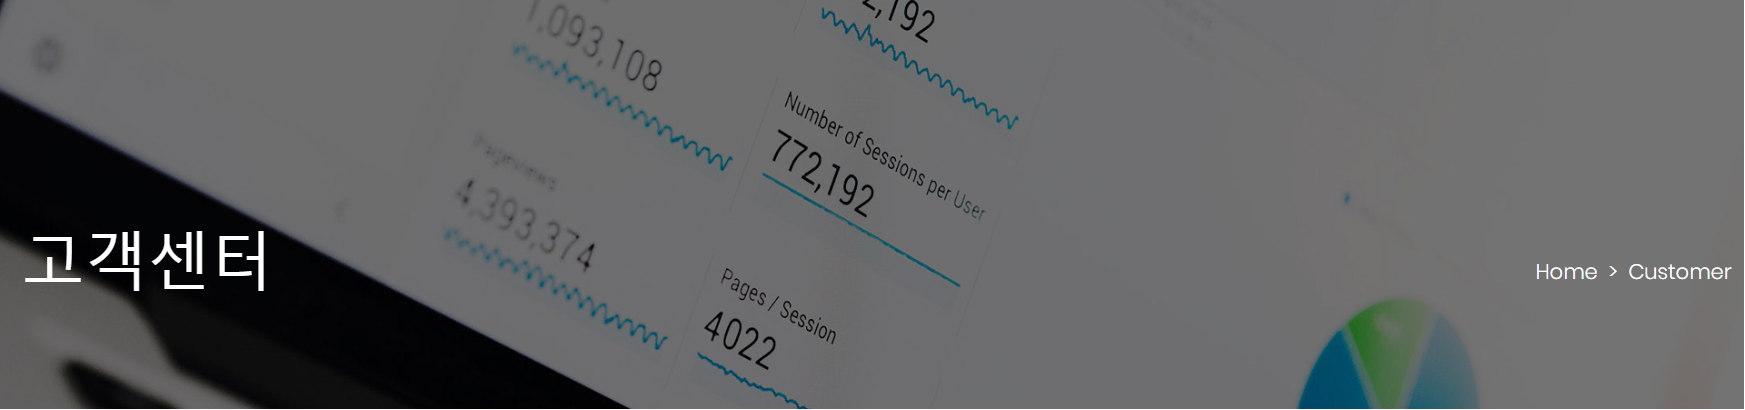
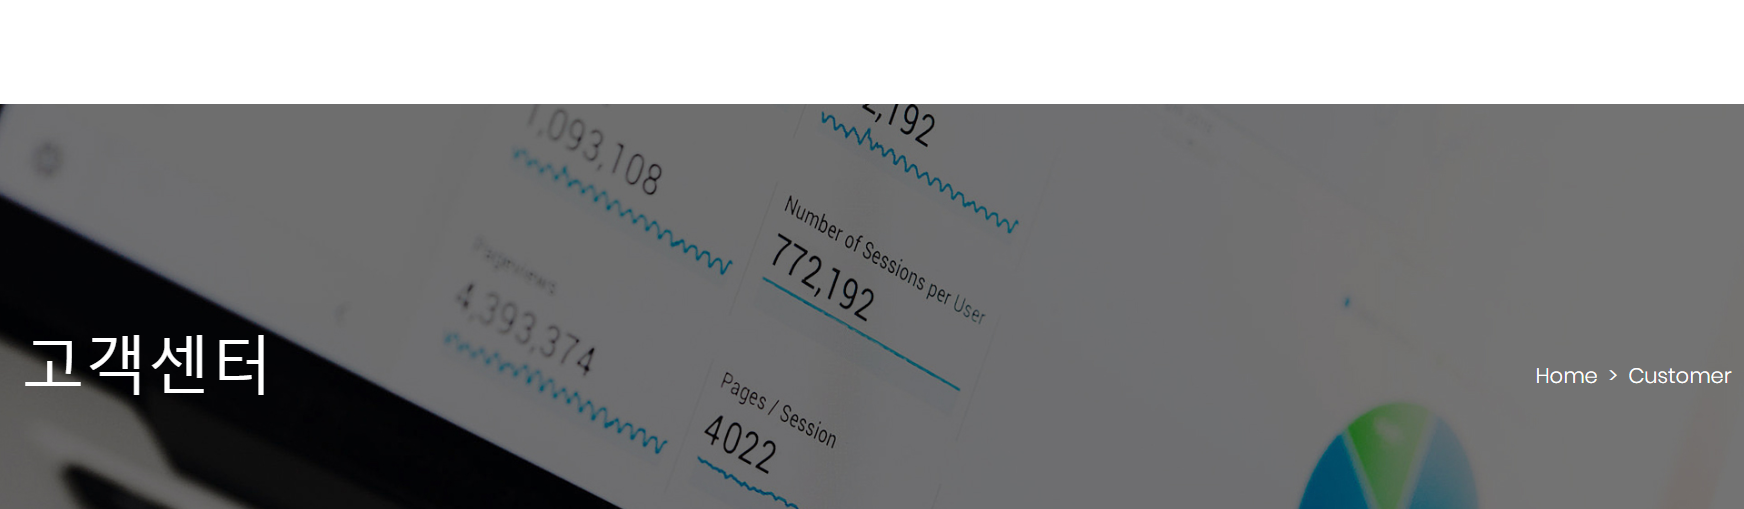
hiever

diff --git a/Projects/Hiever/Customer_Center/customer_center.html b/Projects/Hiever/Customer_Center/customer_center.html
@@ -7,7 +7,7 @@
         <link type="text/css" rel="stylesheet" href="../bar/css/lower_bar.css">
     </head>
     <body>
-        <div>
+        <div class="header">
             <div style="float:left;">
                 <h1><a href="../Main/main2.html"><img src="../bar/logo.png" width="230" height="50"></a></h1>
             </div>
@@ -18,7 +18,7 @@
                 <li class="menu_bar2"><a class="menu_bar3" href="../Customer_Center/customer_center.html">고객 센터</a></li>
             </ul>
         </div>
-        <img src="photo/customer_center_upper.png" style="padding-left: 40px;" width="1165" height="260">
+        <img src="photo/customer_center_upper.png" style="padding-left: 40px;" width="1165" height="360">
         <div class="background">
             <div class="center">
                 <h1 style="color:#8000FF;">Customer<span style="color:black;"> Center</span></h1>
@@ -57,72 +57,71 @@
         <div class="account">
             제작에 관련하여 가장 많이 질문하시는 내용입니다. 더 궁금하신 사항은 당사로 연락주시면 자세한 답변드리겠습니다.
         </div>
-        <div class="">
-            <ul>
-                <li class="Q">홈페이지 제작 상담을 받고 싶은데, 어떻게 해야하나요?</li>
-                    <div class="A">
-                        제작하시려는 홈페이지의 업종과 예상되는 페이지수, 참고하신 홈페이지 주소나 원하시는 디자인, 제작 예산, 기타 부가적인 기능들에 대해 말씀해주시면 됩니다.<br>
-                        특히, 제작하시려는 홈페이지와 유사한 다른 특정 사이트를 말씀해주시면 견적을 안내해드리기 쉽습니다.<br>
-                        <br>
-                        하이에버 홈페이지의 문의하기를 이용하시거나 고객센터(☎ 1599-1880)로 전화주시면 친절히 상담해 드리겠습니다.<br>
-                        제작관련 상담 이메일은 mail@hiever.co.kr입니다. 보다 자세한 논의가 필요한 경우 대면 미팅 가능합니다.<br>
-                    </div>
-                <li class="Q">제작 절차가 어떻게 되나요?</li>
-                    <div class="A">
-                        1. 상담/자료준비 <br>
-                        견적문의 및 상담을 요청하시면 제작하시려는 견적에 필요한 고객 준비 자료를 작성하시도록 도와드립니다.<br>
-                        <br>
-                        2. 견적서/착수금결제/진행(시안제작)<br>
-                        보내드린 견적서를 확인하시고 착수금을 결제해 주시면 귀하의 프로젝트에 인원 배정 및 메인 시안을 제작합니다.<br>
-                        <br>
-                        3. 시안확인/진행 <br>
-                        시안이 통과되면 홈페이지 제작을 진행합니다.<br>
+        <div class="accordion">
+            <input type="checkbox" id="Q&A1">
+            <label for="Q&A1">홈페이지 제작 상담을 받고 싶은데, 어떻게 해야하나요? <em></em></label>
+            <div><p>
+                제작하시려는 홈페이지의 업종과 예상되는 페이지수, 참고하신 홈페이지 주소나 원하시는 디자인, 제작 예산, 기타 부가적인 기능들에 대해 말씀해주시면 됩니다.<br>
+                특히, 제작하시려는 홈페이지와 유사한 다른 특정 사이트를 말씀해주시면 견적을 안내해드리기 쉽습니다.<br>
+                <br>
+                하이에버 홈페이지의 문의하기를 이용하시거나 고객센터(☎ 1599-1880)로 전화주시면 친절히 상담해 드리겠습니다.<br>
+                제작관련 상담 이메일은 mail@hiever.co.kr입니다. 보다 자세한 논의가 필요한 경우 대면 미팅 가능합니다.<br></p></div>
+            <input type="checkbox" id="Q&A2">
+            <label for="Q&A2">제작 절차가 어떻게 되나요?</label>
+            <div><p>
+                1. 상담/자료준비 <br>
+                견적문의 및 상담을 요청하시면 제작하시려는 견적에 필요한 고객 준비 자료를 작성하시도록 도와드립니다.<br>
+                <br>
+                2. 견적서/착수금결제/진행(시안제작)<br>
+                보내드린 견적서를 확인하시고 착수금을 결제해 주시면 귀하의 프로젝트에 인원 배정 및 메인 시안을 제작합니다.<br>
+                <br>
+                3. 시안확인/진행 <br>
+                시안이 통과되면 홈페이지 제작을 진행합니다.<br>
 
-                        4. 완료/수정ㆍ보완 <br>
-                        제작이 완료되면 수정 및 보완할 부분에 대해 체크하셔서 요청하시면 수정ㆍ보완을 진행하여 최종 완료합니다.<br>
-                        <br>
-                        5. 최종완료/잔금결제/도메인연결 <br>
-                        수정ㆍ보완까지 모두 완료되면 잔금을 결제해주셔야 하며, 최종적으로 제작한 홈페이지에 도메인을 연결합니다.<br>
-                    </div>
-                <li class="Q">홈페이지를 제작한 후 별도로 드는 비용이 있나요?</li>
-                    <div class="A">
-                        홈페이지 유지를 위해 가장 기본적인 웹서버 호스팅 비용과 도메인 유지 비용이 듭니다.<br>
-                        운영중에 하자가 발생했을 경우 기간에 제한없이 평생 무료, 기능적인 부분이나 시간이 많이 소요되는 경우 소정의 비용을 청구하고 있습니다.<br>
-                        <br>
-                        홈페이지나 쇼핑몰 운영에 어려움이 있어 전반적인 관리가 필요하신 경우 합리적인 비용으로 운영관리를 서포트 해드리며,<br>
-                        사이트 관리 신청시 당사에 담당 직원이 별도 배치되어 빠른 커뮤니케이션과 정확한 유지보수가 가능합니다.<br>
-                    </div>
-                <li class="Q">하이에버에서 제작한 홈페이지는 모바일에서도 지원이 되나요?</li>
-                    <div class="A">
-                        하이에버는 모바일에서도 정상적으로 호환이 되도록 웹사이트를 제작하고 있습니다.<br>
-                        모바일에서 표시되는 형태로 반응형 웹과 분리형(적응형) 웹이 있는데 작업 규모 및 형태에 따라 적합한 타입으로 작업해드리고 있습니다.<br>
-                    </div>
-                <li class="Q">지방에 있는 회사인데 제작이 가능한가요?</li>
-                    <div class="A">
-                        네, 충분히 가능합니다.<br>
-                        저희 하이에버는 전국의 각 지역은 물론 해외에 있는 회사까지 다양한 곳에서 의뢰하신 프로젝트를 수행한 경험이 있으며 현재도 제작해드리고 있습니다.<br>
-                        <br>
-                        하이에버는 서울에 위치하고 있으며, 수도권 지역 외 타 지역은 프로젝트 규모에 따라 방문도 해드리고 있습니다.<br>
-                        제작 상담 및 작업간에 문의는 전화 및 이메일로 상담과 자료를 주고 받습니다.<br>
-                    </div>
-                <li class="Q">웹표준 코딩이란 무엇인가요?</li>
-                    <div class="A">
-                        웹 표준이란 국제 표준화 단체 W3C(World Wide Web Consortium)에서 권고한 표준안에 따라 <br>
-                        목적과 방향에 맞는 HTML 태그를 사용하여 웹사이트를 제작하는 것을 말합니다.<br>
-                        <br>
-                        어떠한 운영체제나 브라우저를 이용하더라도 같은 결과를 볼 수 있도록(크로스 브라우징) 표준안대로 웹 페이지를 제작하는 것입니다.<br>
-                        이렇게 표준 코딩으로 제작한 웹페이지는 수정 및 보완을 할 경우 쉽게 이해하고 처리할 수 있다는 장점이 있습니다.<br>
-                    </div>
-                <li class="Q">반응형 제작방식이란 무엇인가요?</li>
-                    <div class="A">
-                        분리형(적응형) 모바일 웹은 PC용 웹사이트와는 별개로 모바일 브라우저에서 이용자들이 편하게 이용 가능하게 PC용 웹사이트를 모바일의 크기에 맞춰 줄여 놓은 것입니다.<br>
-                        보통은 PC 웹사이트가 존재하는 상태에서 추가로 m.naver.com과 같이 별도 모바일 사이트를 개발합니다.<br>
-                        웹사이트의 페이지와 컨텐츠가 많은 경우에 분리형 모바일 웹으로 제작하는 것이 효율적입니다.<br>
-                        <br>
-                        전체 페이지의 컨텐츠가 많지 않거나 전반적인 레이아웃이 유사한 경우 반응형 웹이 적합하며 하나의 웹사이트로 다양한 종류의 기기에 최적화된 화면을 보여줍니다.<br>
-                        반응형 웹은 사용자의 기기의 화면과 해상도에 맞춰 반응하여 레이아웃이 변경되는 형태입니다.<br>
-                    </div>
-            </ul>
+                4. 완료/수정ㆍ보완 <br>
+                제작이 완료되면 수정 및 보완할 부분에 대해 체크하셔서 요청하시면 수정ㆍ보완을 진행하여 최종 완료합니다.<br>
+                <br>
+                5. 최종완료/잔금결제/도메인연결 <br>
+                수정ㆍ보완까지 모두 완료되면 잔금을 결제해주셔야 하며, 최종적으로 제작한 홈페이지에 도메인을 연결합니다.<br></p></div>
+            <input type="checkbox" id="Q&A3">
+            <label for="Q&A3">홈페이지를 제작한 후 별도로 드는 비용이 있나요?</label>
+            <div><p>
+                홈페이지 유지를 위해 가장 기본적인 웹서버 호스팅 비용과 도메인 유지 비용이 듭니다.<br>
+                운영중에 하자가 발생했을 경우 기간에 제한없이 평생 무료, 기능적인 부분이나 시간이 많이 소요되는 경우 소정의 비용을 청구하고 있습니다.<br>
+                <br>
+                홈페이지나 쇼핑몰 운영에 어려움이 있어 전반적인 관리가 필요하신 경우 합리적인 비용으로 운영관리를 서포트 해드리며,<br>
+                사이트 관리 신청시 당사에 담당 직원이 별도 배치되어 빠른 커뮤니케이션과 정확한 유지보수가 가능합니다.<br></p></div>
+            <input type="checkbox" id="Q&A4">
+            <label for="Q&A4">하이에버에서 제작한 홈페이지는 모바일에서도 지원이 되나요?</label>
+            <div><p>
+                하이에버는 모바일에서도 정상적으로 호환이 되도록 웹사이트를 제작하고 있습니다.<br>
+                모바일에서 표시되는 형태로 반응형 웹과 분리형(적응형) 웹이 있는데 작업 규모 및 형태에 따라 적합한 타입으로 작업해드리고 있습니다.<br></p></div>
+            <input type="checkbox" id="Q&A5">
+            <label for="Q&A5">지방에 있는 회사인데 제작이 가능한가요?</label>
+            <div><p>
+                네, 충분히 가능합니다.<br>
+                저희 하이에버는 전국의 각 지역은 물론 해외에 있는 회사까지 다양한 곳에서 의뢰하신 프로젝트를 수행한 경험이 있으며 현재도 제작해드리고 있습니다.<br>
+                <br>
+                하이에버는 서울에 위치하고 있으며, 수도권 지역 외 타 지역은 프로젝트 규모에 따라 방문도 해드리고 있습니다.<br>
+                제작 상담 및 작업간에 문의는 전화 및 이메일로 상담과 자료를 주고 받습니다.<br></p></div>
+            <input type="checkbox" id="Q&A6">
+            <label for="Q&A6">웹표준 코딩이란 무엇인가요?</label>
+            <div><p>
+                웹 표준이란 국제 표준화 단체 W3C(World Wide Web Consortium)에서 권고한 표준안에 따라 <br>
+                목적과 방향에 맞는 HTML 태그를 사용하여 웹사이트를 제작하는 것을 말합니다.<br>
+                <br>
+                어떠한 운영체제나 브라우저를 이용하더라도 같은 결과를 볼 수 있도록(크로스 브라우징) 표준안대로 웹 페이지를 제작하는 것입니다.<br>
+                이렇게 표준 코딩으로 제작한 웹페이지는 수정 및 보완을 할 경우 쉽게 이해하고 처리할 수 있다는 장점이 있습니다.<br></p></div>
+            <input type="checkbox" id="Q&A7">
+            <label for="Q&A7">반응형 제작방식이란 무엇인가요?</label>
+            <div></p>
+                분리형(적응형) 모바일 웹은 PC용 웹사이트와는 별개로 모바일 브라우저에서 이용자들이 편하게 이용 가능하게 PC용 웹사이트를 모바일의 크기에 맞춰 줄여 놓은 것입니다.<br>
+                보통은 PC 웹사이트가 존재하는 상태에서 추가로 m.naver.com과 같이 별도 모바일 사이트를 개발합니다.<br>
+                웹사이트의 페이지와 컨텐츠가 많은 경우에 분리형 모바일 웹으로 제작하는 것이 효율적입니다.<br>
+                <br>
+                전체 페이지의 컨텐츠가 많지 않거나 전반적인 레이아웃이 유사한 경우 반응형 웹이 적합하며 하나의 웹사이트로 다양한 종류의 기기에 최적화된 화면을 보여줍니다.<br>
+                반응형 웹은 사용자의 기기의 화면과 해상도에 맞춰 반응하여 레이아웃이 변경되는 형태입니다.<br></p></div>
+        </div>
             <!-- <div class="">
                 홈페이지 제작 상담을 받고 싶은데, 어떻게 해야하나요?
             </div>

diff --git a/Projects/Hiever/Service/service.html b/Projects/Hiever/Service/service.html
@@ -7,7 +7,7 @@
         <link type="text/css" rel="stylesheet" href="../bar/css/lower_bar.css">
     </head>
     <body>
-        <div>
+        <div class="header">
             <div style="float:left;">
                 <h1><a href="../Main/main2.html"><img src="../bar/logo.png" width="230" height="50"></a></h1>
             </div>
@@ -18,7 +18,7 @@
                 <li class="menu_bar2"><a class="menu_bar3" href="../Customer_Center/customer_center.html">고객 센터</a></li>
             </ul>
         </div>
-        <img src="photo/service_upper.png" style="padding-left: 40px;" width="1160" height="260">
+        <img src="photo/service_upper.png" style="padding-left: 40px;" width="1160" height="360">
         <div class="center">
             <h1>Hiever <span style="color:#8000FF;">Overview</span></h1>
         </div>
@@ -90,7 +90,7 @@
                     <th rowspan="2" class="stage_of_production_num">03</th>
                     <td class="stage_of_production_title">오픈.SEO제작</td>
                     <th rowspan="2" class="together">Let's work <span style="text-decoration:underline">together</span></th>
-                    <td class="together_box"></td>
+                    <td rowspan="2" class="together_box"></td>
                 </tr>
                 <tr>
                     <td class="stage_of_production_account">프로젝트 제작방향과 작업방식에 대해 제시합니다.</td>

diff --git a/Projects/Hiever/Service/service.css b/Projects/Hiever/Service/service.css
@@ -59,36 +59,39 @@
 }
 .stage_of_production_num {
     font-size: 60px;
+    text-align: justify;
+    padding-bottom: 90px;
 }
 .stage_of_production_title {
     text-align: left;
     font-size: 18px;
+    padding-top: 10px;
+    padding-left: 20px;
 }
 .stage_of_production_account {
     text-align: left;
-    padding: 0px 20px 10px 20px;
+    padding: 0px 40px 10px 0px;
     font-size: 15px;
     color: gray;
 }
-
-
-/* .together_box {
+.together_box {
     background-color: #D0A9F5;
-    width: 170px;
+    width: 200px;
     height: 200px;
 }
 .together {
-    font-size: 35px;
-    /* padding-left:30px;
-} */
-
-
+    font-size: 37px;
+    transform: translate(100px, 0px);
+}
+.together:hover {
+    font-size: 37px;
+    transform: translate(100px, 0px);
+}
 .consultation {
     background-color: #F2F2F2;
     margin: 0px 40px 0px 40px;
     padding: 40px 5px 40px 5px;
 }
-
 .contact_us {
     padding: 10px 30px 10px 30px;
     color: white;
@@ -97,5 +100,13 @@
     margin-left: 400px;
     font-weight: bold;
     text-decoration: none;
-
+}
+.contact_us:hover {
+    padding: 10px 30px 10px 30px;
+    color: white;
+    background-color: black;
+    border-radius:25px;
+    margin-left: 400px;
+    font-weight: bold;
+    text-decoration: none;
 }

diff --git a/Projects/Hiever/Customer_Center/customer_center.css b/Projects/Hiever/Customer_Center/customer_center.css
@@ -30,17 +30,44 @@
     padding-top: 10px;
     font-weight: bold;
 }
-.Q {
+
+.accordion {
+    margin: 0px 50px 0px 50px;
+}
+input[id*="Q&A"] {
+    display: none;
+}
+input[id*="Q&A"] + label {
     display: block;
-    padding: 15px 20px;
-    margin: 0px 50px 0px 10px;
-    background-color: #F2F2F2;
-    color: black;
+    padding: 15px;
+    background-color: #F6F7F7;
+    margin-bottom: 10px;
+    color: #6E6E6E;
+    font-size: 15px;
+    cursor: pointer;
     position: relative;
 }
-.A {
-    padding: 15px 0px 40px 30px;;
-    color: black;
+/* input[id*="Q&A"] + label em {
+    position: absolute;
+    right: 20px;
+    width: 50px;
+    height: 43px;
+    margin-top: -20px;
+    display: inline-block;
+    background: url(photo/arrow1.png);
+} */
+input[id*="Q&A"] + label + div {
+    max-height: 0;
+    transition: all .8s;
+    overflow: hidden;
+    background: ##F2F2F2;
     font-size: 14px;
-    position: relative;
+    color: #6E6E6E;
 }
+input[id*="Q&A"] + label + div p{
+    display: inline-block;
+    padding-left: 20px;
+    padding-bottom: 30px
+}
+input[id*="Q&A"]:checked + label + div {max-height: 300px;}
+/* input[id*="Q&A"]:checked + label em {background-position: 0 -30px;} */

diff --git a/Projects/Hiever/bar/css/upper.css b/Projects/Hiever/bar/css/upper.css
@@ -1,3 +1,12 @@
+.header {
+  position: fixed;
+  top: 0;
+  left: 0;
+  right: 0;
+  background-color: white;
+  box-shadow: 0px 0px 1px black;
+  z-index: 9999;
+}
 .menu_bar {
     padding-right: 100px;
     padding-top: 35px;
@@ -10,4 +19,8 @@
 .menu_bar3 {
     text-decoration: none;
     color: black;
+}
+.menu_bar3:hover {
+    text-decoration: none;
+    color: gray;
 }

diff --git a/Projects/Hiever/Main/main2.html b/Projects/Hiever/Main/main2.html
@@ -7,7 +7,7 @@
         <link type="text/css" rel="stylesheet" href="../bar/css/lower_bar.css">
     </head>
     <body>
-        <div>
+        <div class="header">
             <div style="float:left;">
                 <h1><a href="../Main/main2.html"><img src="../bar/logo.png" width="230" height="50"></a></h1>
             </div>
